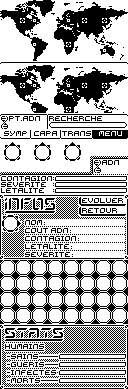
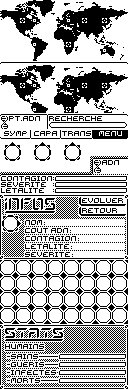
Remise au propre du fond des stats et mise à jour du Readme

diff --git a/Sources/src/main.c b/Sources/src/main.c
@@ -310,9 +310,17 @@ int menu (const int menu_muta, const image_t *img_fonds, const int nv_symp, cons
                 fin = 1;
                 break;
             case KEY_EXE:
-                if (tableau[y][x] != lim) fin = 1;
+                if (tableau[y][x] != lim) && (tableau[x][y] != 0) fin = 2;
         }
     }
+    if fin == 2
+        
+        
+        
+        
+        
+        display_info (*nom, adn, conta, leta, sev);
+        
     return 0;
 }
 

diff --git a/README.md b/README.md
@@ -2,7 +2,7 @@
 
 ## Présentation
 
-De l'Anglais 'Plague' virus et 'inc' diminutif de 'incorporated' peut être traduit par coopérative ou entreprise. Vous voila donc plongé dans 'L'Entreprise des Virus' un nom digne de 1984 : 'Le Ministère des Virus et de la Régulation Démographique' Ça nous fait un superbe acronyme : MVRD. J'aurais pût rajouter 'Et de la Santé Publique' aussi… Les Humains sont tellement fragiles, protégeons-les ! La plus grande menace pour l'Homme étant l'Homme, faites une bonne action : jouez à ce jeu !
+De l'Anglais 'Plague' virus, ou peste et 'inc' diminutif de 'incorporated' peut être traduit par coopérative ou entreprise. Vous voila donc plongé dans 'L'Entreprise du Virus' un nom digne de 1984 : 'Le Ministère des Virus et de la Régulation Démographique' Ça nous fait un superbe acronyme : MVRD. J'aurais pu rajouter 'Et de la Santé Publique' on tape dans du très haut niveau là : MVRDESP aussi… Les Humains sont tellement fragiles, protégeons-les ! La plus grande menace pour l'Homme étant l'Homme, faites une bonne action : jouez à ce jeu !
 
 Plague inc est donc un jeu de stratégie où le but est de réduire l'humanité à néant… Simple ? Non ! Il vous faudra manipuler avec dextérité et prudence un virus pour anéantir des humains qui ne sont pas super collaboratifs… Pire, ces petits rigolos veulent sauver leurs peaux et recherchent activement un remède à ce mystérieux virus inconnu…
 
@@ -34,10 +34,10 @@ Toutes les mutations ont plusieurs spécificités :
 
 ### Symptômes
 
-Comme son nom l'indique, votre maladie aussi puissante soit-elle n'est pas invisible : elle présente certains symptômes qui ont leurs spécificités. Bien entendu, les symptômes présentés dans ce jeu font partie du jeu d'origines et leurs spécificites sont proches.
+Comme son nom l'indique, votre maladie aussi puissante soit-elle n'est pas invisible : elle présente certains symptômes qui ont leurs spécificités. Bien entendu, les symptômes présentés dans ce jeu font partie du jeu d'origines et leurs spécificités sont proches.
 
 |Nom|Coût ADN|Pt de contagion|Pt de sévérité|Pt de létalité|Changement|
-|:-----|:----------:|:----------------:|:--------------:|:---------------:|:------------:|
+|:---:|:---:|:---:|:---:|:---:|:---:|
 |nausée|2|1|1|0|0,5
 |vomissement|4|3|2|0|0,5
 |tumeurs|15|4|2|5|1
@@ -56,3 +56,33 @@ Comme son nom l'indique, votre maladie aussi puissante soit-elle n'est pas invis
 ### Capacités
 
 En mutant, votre maladie peut acquérir des capacités. Ces capacités lui permettent de mieux apréhender un milieu ou une situation, ainsi la capacité *Résistance au froid* donne un suplément de vigueur à votre virus dans les pays froid. Cela se traduit par une augmentation plus ou moins forte de la contagion dans ces régions du monde…
+
+|Nom|Pt de contagion|Pt de sévérité|Pt de létalité|Coût ADN|
+|:---:|:---:|:---:|:---:|:---:|:---:|
+|résistance au froid|+4|||10
+|résistance au chand|+7|||15
+|résistance à l'environnement|+10|||30
+|résistance aux médicaments||+2|+0,5|15
+|résistance génétique||+5|+1|25
+|mutation accélérée||+8|+2|30
+
+### Moyens de transmissions
+
+Votre maladie aura tout le loisir de changer ses moyens de transmission ! Plus ou moins efficaces ceux-ci permettent à votre maladie d'accéder à des caractérestiques intéressantes qui lui permettront de coloniser le monde entier ! ;)
+
+|Nom|Pt de contagion|Coût ADN|
+|:---:|:---:|:---:|:---:|:---:|:---:|
+|air Nv 1|+2|9
+|air Nv 2|+5|15
+|air Nv 3|+8|20
+|air et eau|+10|30
+|eau Nv 1|+2|9
+|eau Nv 2|+3|12
+|eau Nv 3|+9|25
+|oiseau Nv 1|+3|12
+|oiseau Nv 2|+5|18
+|animaux Nv 1|+2|10
+|animaux Nv 2|+6|16
+|sang Nv 1|+1|8
+|sang Nv 2|+4|14
+|sang Nv 3|+9|20
